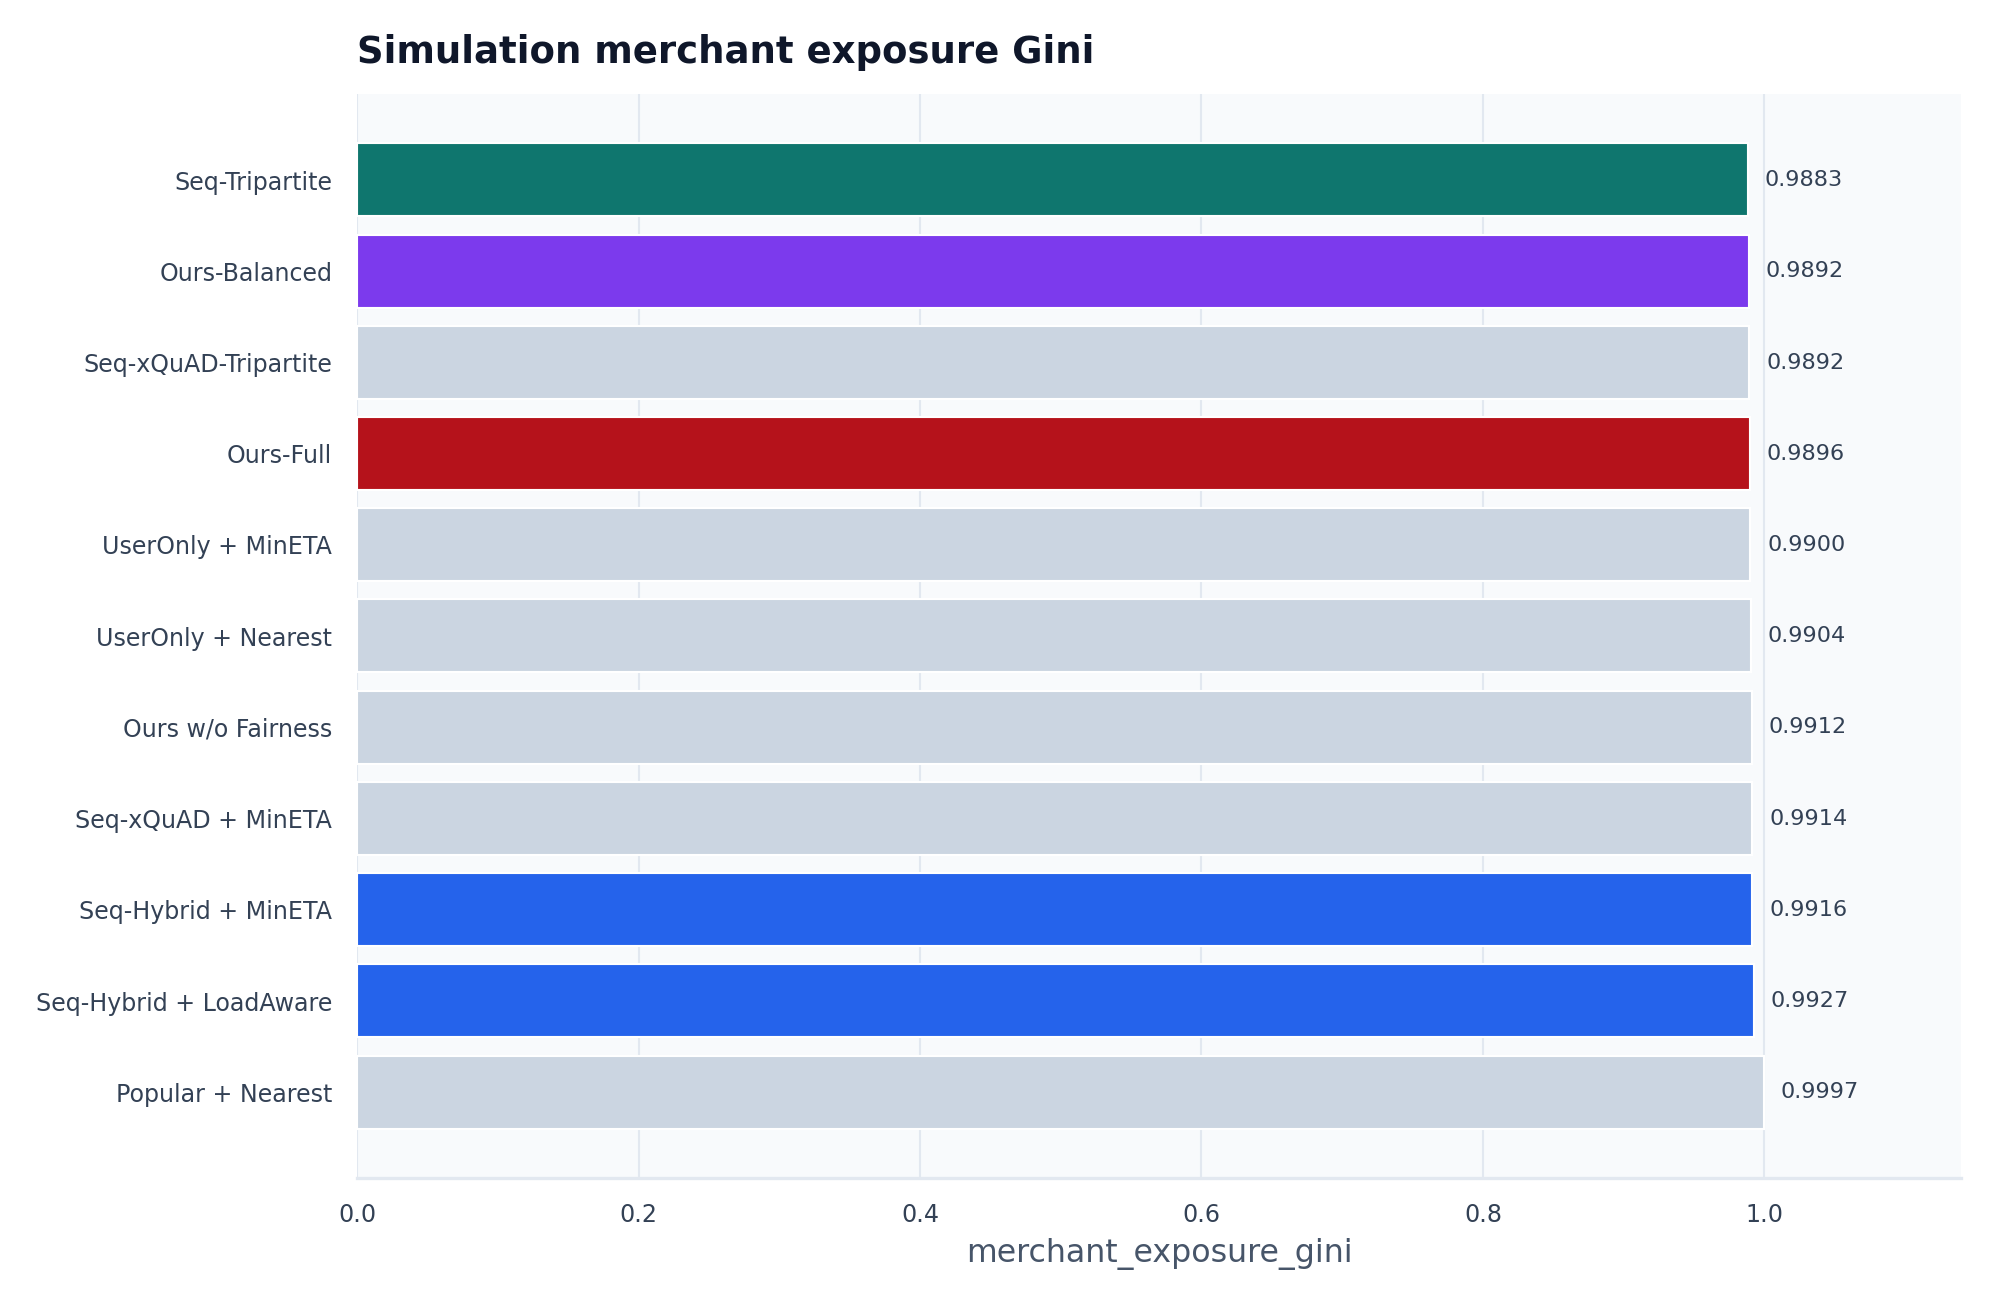
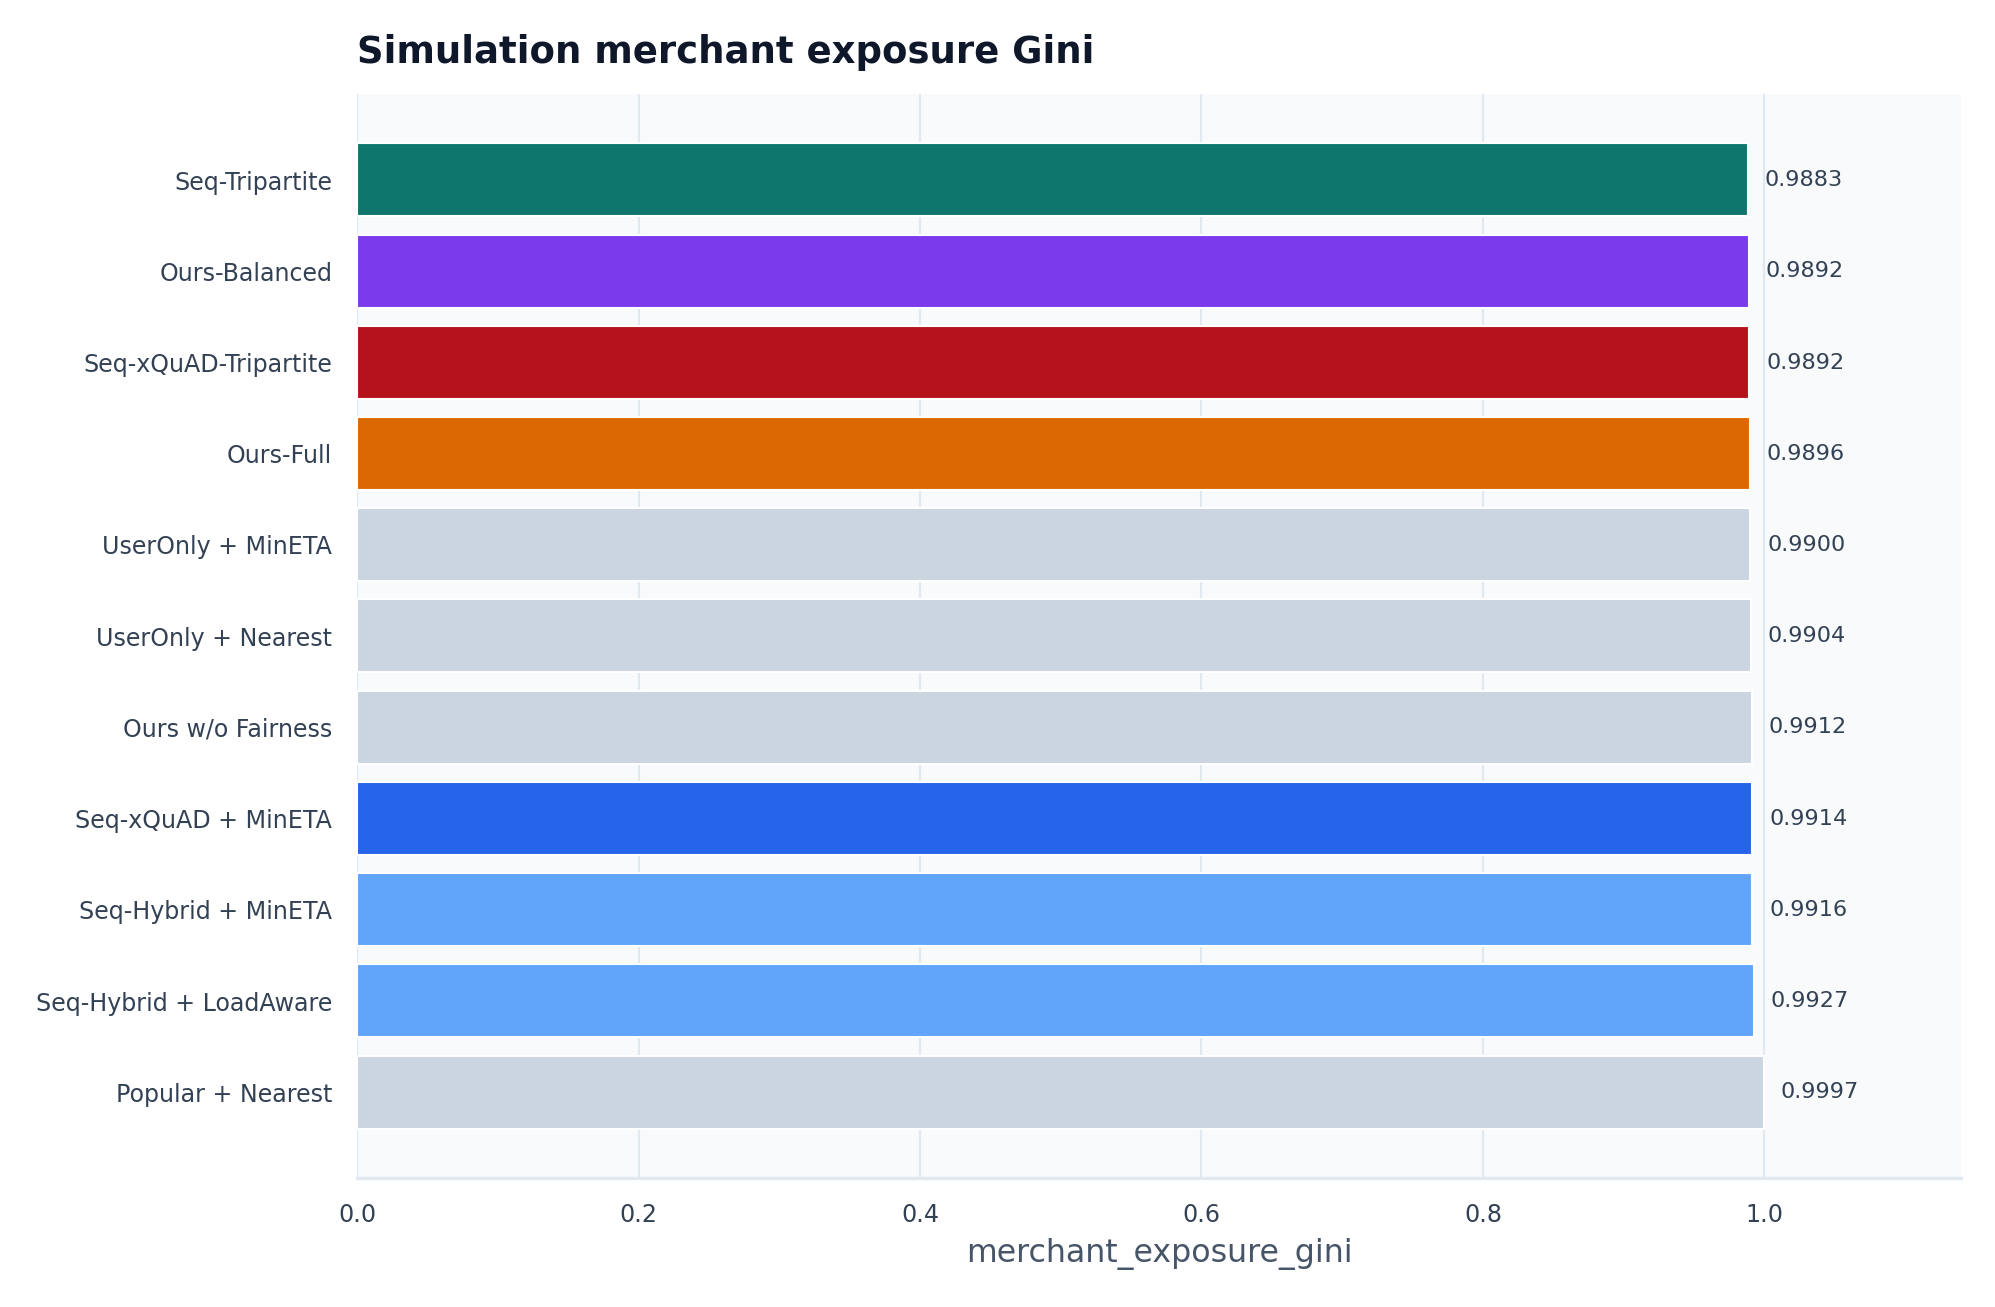
Highlight optimized strategies in visuals

Changed region(s): [[0.1554, 0.5815, 0.9013, 0.7957], [0.1554, 0.2448, 0.9013, 0.3979]]

diff --git a/app.py b/app.py
@@ -140,6 +140,28 @@ def pct(value: float) -> str:
     return f"{clamp01(value) * 100:.0f}%"
 
 
+DEMO_COLORS = {
+    "Seq-xQuAD-Tripartite": "#B5121B",
+    "Seq-xQuAD": "#2563EB",
+    "Seq-Hybrid": "#60A5FA",
+    "Seq-Tripartite": "#0F766E",
+    "Ours-Full": "#DC6803",
+    "Ours-Balanced": "#7C3AED",
+}
+
+
+def demo_color(name: object) -> str:
+    text = str(name)
+    for key, color in DEMO_COLORS.items():
+        if key in text:
+            return color
+    return "#94a3b8"
+
+
+def demo_color_map(values) -> dict[str, str]:
+    return {str(value): demo_color(value) for value in values}
+
+
 def recommendation_card(row: pd.Series, selected: bool = False) -> str:
     card_class = "ff-card ff-card-selected" if selected else "ff-card"
     name = html.escape(str(row["merchant_name"]))
@@ -665,16 +687,67 @@ with tab_metrics:
     if offline_path.exists() and sim_path.exists():
         offline = pd.read_csv(offline_path)
         sim = pd.read_csv(sim_path)
+        policy_model_map = {
+            "Popular + Nearest": "Popular",
+            "UserOnly + Nearest": "UserOnly",
+            "UserOnly + MinETA": "UserOnly",
+            "Seq-Hybrid + MinETA": "Seq-Hybrid",
+            "Seq-Hybrid + LoadAware": "Seq-Hybrid",
+            "Seq-xQuAD + MinETA": "Seq-xQuAD",
+            "Seq-Tripartite": "Seq-Tripartite",
+            "Seq-xQuAD-Tripartite": "Seq-xQuAD-Tripartite",
+            "Ours-Balanced": "Ours-Balanced",
+            "Ours w/o Fairness": "UserOnly",
+            "Ours-Full": "Ours-Full",
+        }
         user_best = offline.sort_values("Recall@20", ascending=False).iloc[0]
-        ours_full = offline[offline["model"] == "Ours-Full"].iloc[0]
         utility_best = sim.sort_values("platform_utility", ascending=False).iloc[0]
         eta_best = sim.sort_values("avg_eta").iloc[0]
+        utility_model_name = policy_model_map.get(str(utility_best["policy"]), str(utility_best["policy"]))
+        utility_model_match = offline[offline["model"].astype(str) == utility_model_name]
+        utility_model = utility_model_match.iloc[0] if not utility_model_match.empty else user_best
 
         k1, k2, k3, k4 = st.columns(4)
         k1.metric("最高 Recall@20", f"{user_best['Recall@20']:.4f}", str(user_best["model"]))
-        k2.metric("Ours-Full Recall@20", f"{ours_full['Recall@20']:.4f}", "换取履约约束")
+        k2.metric("最高效用模型 Recall@20", f"{utility_model['Recall@20']:.4f}", utility_model_name)
         k3.metric("最低 Avg ETA", f"{eta_best['avg_eta']:.2f}", str(eta_best["policy"]))
         k4.metric("最高平台效用", f"{utility_best['platform_utility']:.4f}", str(utility_best["policy"]))
+
+        offline_index = offline.set_index("model", drop=False)
+        frontier_rows = []
+        for _, sim_row in sim.iterrows():
+            policy = str(sim_row["policy"])
+            model_name = policy_model_map.get(policy)
+            if model_name not in offline_index.index:
+                continue
+            off_row = offline_index.loc[model_name]
+            frontier_rows.append(
+                {
+                    "策略": policy,
+                    "推荐模型": model_name,
+                    "Recall@20": float(off_row["Recall@20"]),
+                    "NDCG@20": float(off_row["NDCG@20"]),
+                    "曝光Gini": float(off_row["ExposureGini"]),
+                    "Avg ETA": float(sim_row["avg_eta"]),
+                    "超时率": float(sim_row["timeout_rate"]),
+                    "平台效用": float(sim_row["platform_utility"]),
+                }
+            )
+        frontier_df = pd.DataFrame(frontier_rows).sort_values("平台效用", ascending=False)
+        st.markdown("#### 三方权衡摘要")
+        st.dataframe(
+            frontier_df.head(7),
+            use_container_width=True,
+            hide_index=True,
+            column_config={
+                "Recall@20": st.column_config.NumberColumn(format="%.4f"),
+                "NDCG@20": st.column_config.NumberColumn(format="%.4f"),
+                "曝光Gini": st.column_config.NumberColumn(format="%.4f"),
+                "Avg ETA": st.column_config.NumberColumn(format="%.2f"),
+                "超时率": st.column_config.NumberColumn(format="%.4f"),
+                "平台效用": st.column_config.NumberColumn(format="%.4f"),
+            },
+        )
 
         c1, c2 = st.columns(2)
         with c1:
@@ -687,6 +760,7 @@ with tab_metrics:
                 color_discrete_sequence=["#2563eb", "#0f766e"],
             )
             acc_fig.update_layout(height=360, margin=dict(l=8, r=8, t=48, b=8), xaxis_title="")
+            acc_fig.update_xaxes(tickangle=25)
             st.plotly_chart(acc_fig, use_container_width=True)
 
         with c2:
@@ -697,6 +771,7 @@ with tab_metrics:
                 color="model",
                 size="LongTailExposure@20",
                 title="用户准确性与商家覆盖的权衡",
+                color_discrete_map=demo_color_map(offline["model"]),
             )
             fair_fig.update_layout(height=360, margin=dict(l=8, r=8, t=48, b=8))
             st.plotly_chart(fair_fig, use_container_width=True)
@@ -710,20 +785,25 @@ with tab_metrics:
                 color="policy",
                 size="completed_orders",
                 title="履约侧：ETA 与平台效用",
+                color_discrete_map=demo_color_map(sim["policy"]),
             )
             sim_fig.update_layout(height=360, margin=dict(l=8, r=8, t=48, b=8))
             st.plotly_chart(sim_fig, use_container_width=True)
 
         with c4:
+            timeout_sorted = sim.sort_values("timeout_rate")
             timeout_fig = px.bar(
-                sim.sort_values("timeout_rate"),
+                timeout_sorted,
                 x="policy",
                 y="timeout_rate",
-                color="platform_utility",
+                color="policy",
+                text="timeout_rate",
                 title="超时率越低，平台效用越容易提升",
-                color_continuous_scale=["#dc6803", "#0f766e"],
+                color_discrete_map=demo_color_map(timeout_sorted["policy"]),
             )
             timeout_fig.update_layout(height=360, margin=dict(l=8, r=8, t=48, b=8), xaxis_title="")
+            timeout_fig.update_traces(texttemplate="%{y:.1%}", textposition="outside")
+            timeout_fig.update_xaxes(tickangle=25)
             st.plotly_chart(timeout_fig, use_container_width=True)
 
         with st.expander("查看完整指标表", expanded=False):

diff --git a/foodflow/figures.py b/foodflow/figures.py
@@ -10,9 +10,11 @@ from .io import ensure_dir
 
 
 HIGHLIGHT = {
-    "Seq-Hybrid": "#2563EB",
+    "Seq-xQuAD-Tripartite": "#B5121B",
+    "Seq-xQuAD": "#2563EB",
+    "Seq-Hybrid": "#60A5FA",
     "Seq-Tripartite": "#0F766E",
-    "Ours-Full": "#B5121B",
+    "Ours-Full": "#DC6803",
     "Ours-Balanced": "#7C3AED",
 }
 DEFAULT_COLOR = "#CBD5E1"
@@ -25,6 +27,31 @@ def _color_for(label: str) -> str:
         if key in str(label):
             return color
     return DEFAULT_COLOR
+
+
+def _annotate_highlights(ax, df: pd.DataFrame, x: str, y: str, label_col: str) -> None:
+    offsets = {
+        "Seq-xQuAD-Tripartite": (8, 13),
+        "Ours-Full": (8, -13),
+        "Seq-xQuAD": (8, 8),
+        "Seq-Hybrid": (8, -10),
+        "Seq-Tripartite": (8, 10),
+        "Ours-Balanced": (8, -10),
+    }
+    for _, row in df.iterrows():
+        label = str(row[label_col])
+        if not any(key in label for key in HIGHLIGHT):
+            continue
+        offset = next((value for key, value in offsets.items() if key in label), (7, 5))
+        ax.annotate(
+            label,
+            (float(row[x]), float(row[y])),
+            xytext=offset,
+            textcoords="offset points",
+            fontsize=8.2,
+            color=TEXT_COLOR,
+            bbox=dict(boxstyle="round,pad=0.22", fc="white", ec=GRID_COLOR, alpha=0.9),
+        )
 
 
 def _save_bar(
@@ -145,6 +172,7 @@ def generate_figures(results_dir: Path, figures_dir: Path) -> list[Path]:
             )
             ax.set_title("Accuracy-Fairness trade-off", fontsize=14, fontweight="bold", loc="left")
             ax.grid(color=GRID_COLOR)
+            _annotate_highlights(ax, offline, "NDCG@20", "ExposureGini", "model")
             ax.legend(frameon=False, bbox_to_anchor=(1.02, 1), loc="upper left")
             fig.tight_layout()
             out = figures_dir / "tradeoff_ndcg_gini.png"
@@ -165,6 +193,7 @@ def generate_figures(results_dir: Path, figures_dir: Path) -> list[Path]:
             )
             ax.set_title("Accuracy-Coverage trade-off", fontsize=14, fontweight="bold", loc="left")
             ax.grid(color=GRID_COLOR)
+            _annotate_highlights(ax, offline, "Recall@20", "Coverage@20", "model")
             ax.legend(frameon=False, bbox_to_anchor=(1.02, 1), loc="upper left")
             fig.tight_layout()
             out = figures_dir / "tradeoff_recall_coverage.png"
@@ -206,6 +235,7 @@ def generate_figures(results_dir: Path, figures_dir: Path) -> list[Path]:
             )
             ax.set_title("ETA-Utility trade-off", fontsize=14, fontweight="bold", loc="left")
             ax.grid(color=GRID_COLOR)
+            _annotate_highlights(ax, sim, "avg_eta", "platform_utility", "policy")
             ax.legend(frameon=False, bbox_to_anchor=(1.02, 1), loc="upper left")
             fig.tight_layout()
             out = figures_dir / "tradeoff_eta_utility.png"
